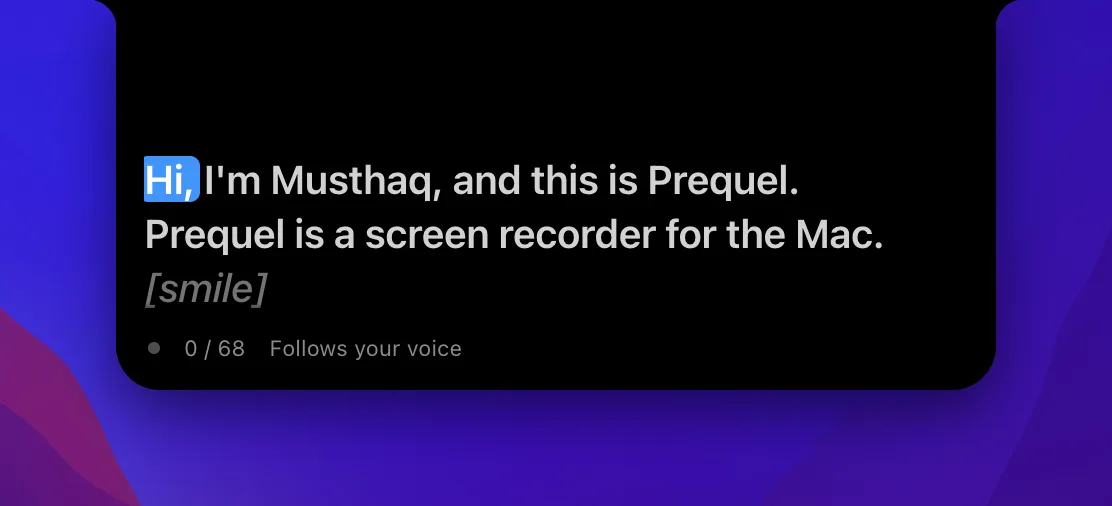
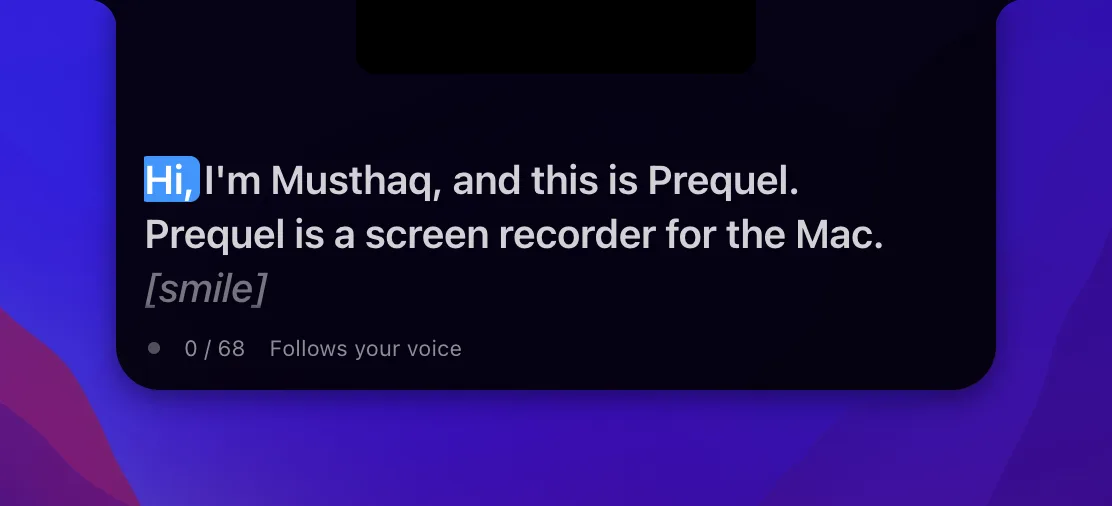
The island's shadow fits its margin, and the screen shows through it faintly

Changed region(s): [[0.1223, 0.7708, 0.8561, 0.8597]]

diff --git a/apps/desktop/src/renderer/src/index.css b/apps/desktop/src/renderer/src/index.css
@@ -531,10 +531,14 @@ body {
 }
 
 /* The teleprompter island.
-   Black, not the dock's blue-grey, and fully opaque: it hangs from the notch
-   and has to be the notch's own colour or the seam between the two shows. */
+   Black, not the dock's blue-grey: it hangs from the notch and has to read as
+   the notch's own colour. A shade short of opaque, so the screen shows through
+   it faintly — not frosted, because a blur on macOS is an `NSVisualEffectView`
+   behind the whole window rectangle and cannot be cut to this shape. One
+   surface throughout: a solid strip against the notch over a translucent body
+   drew a hard line between the two, which is the seam the shape exists to hide. */
 @utility prompter-theme {
-  --prompter-bg: #000;
+  --prompter-bg: rgba(0, 0, 0, 0.9);
   --prompter-fg: #fff;
   --prompter-muted: rgba(255, 255, 255, 0.55);
   /* The word being read: the app's own blue, the same one the dock draws a

diff --git a/apps/desktop/src/renderer/src/teleprompter/Teleprompter.tsx b/apps/desktop/src/renderer/src/teleprompter/Teleprompter.tsx
@@ -217,7 +217,10 @@ export function Teleprompter() {
         key={motion.count}
         className={cn(
           "absolute inset-x-(--panel-inset) bottom-(--panel-inset) flex flex-col overflow-visible",
-          "bg-prompter-bg text-prompter-fg shadow-[0_10px_28px_rgba(0,0,0,0.5)]",
+          // The same shadow as the dock, for the same margin: it is cast into
+          // `PANEL_INSET` of transparent window, and one that reaches further
+          // than that is sliced off at the window's edge in a hard line.
+          "bg-prompter-bg text-prompter-fg shadow-[0_4px_14px_rgba(0,0,0,0.45)]",
           notch ? "top-0 rounded-b-[22px]" : "top-(--panel-inset) rounded-[18px]",
           motion.phase === "in" ? "animate-island-in" : "animate-island-out",
           "motion-reduce:animate-none",
